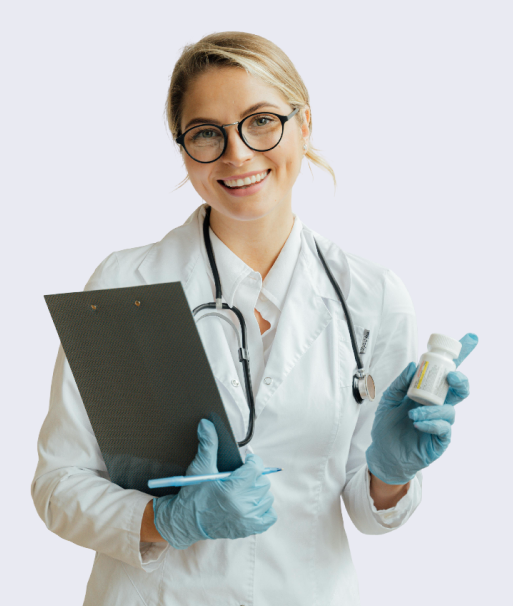
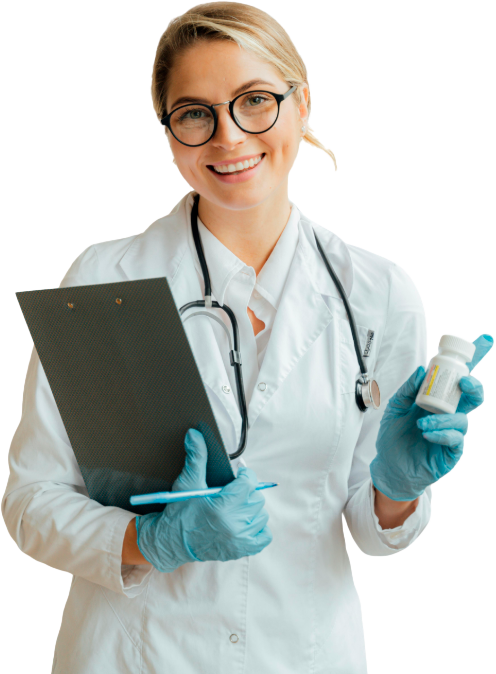
ajusta hero principal

diff --git a/src/components/hero-hss.tsx b/src/components/hero-hss.tsx
@@ -1,6 +1,6 @@
-import medicaHero from '@/assets/medica-hero-hss.png';
-import { NumberTicker } from '@/components/ui/number-ticker';
-import { ShimmerButton } from '@/components/ui/shimmer-button';
+import medicaHero from "@/assets/medica-hero-hss.png";
+import { NumberTicker } from "@/components/ui/number-ticker";
+import { ShimmerButton } from "@/components/ui/shimmer-button";
 
 /* === COMPONENTE HERO | inicio === */
 interface HeroHssProps {
@@ -14,12 +14,15 @@ export function HeroHss({ diasEconomizados, prejuizoEstimado }: HeroHssProps): J
 
   return (
     <section className="relative isolate min-h-[calc(100vh-74px)] overflow-hidden bg-[#eef0f7]/92 px-4 pb-20 pt-16 sm:px-6 lg:px-8 lg:pb-14 lg:pt-20">
-      <div className="absolute inset-y-12 right-[4vw] hidden w-[45vw] max-w-[620px] rounded-full bg-[#d7e7fb] lg:block" aria-hidden="true" />
+      <div
+        className="absolute bottom-10 right-[3vw] top-8 hidden w-[48vw] max-w-[650px] rounded-full bg-[#d7e7fb] lg:block"
+        aria-hidden="true"
+      />
 
-      <div className="relative z-10 mx-auto grid min-h-[calc(100vh-154px)] max-w-[1110px] items-center gap-12 lg:grid-cols-[0.95fr_1.05fr]">
-        <div className="revelar-scroll relative z-20 max-w-[600px]">
-          <h1 className="text-[3.15rem] font-black leading-[1.02] tracking-[0.05em] text-[#070814] sm:text-[4.7rem] lg:text-[5.05rem] xl:text-[5.45rem]">
-            Digitalize e simplifique o{' '}
+      <div className="relative z-10 mx-auto grid min-h-[calc(100vh-154px)] max-w-[1110px] items-center gap-12 lg:grid-cols-[0.92fr_1.08fr]">
+        <div className="revelar-scroll relative z-20 max-w-[560px]">
+          <h1 className="text-[2.55rem] font-black leading-[1.05] tracking-[0.03em] text-[#070814] sm:text-[3.6rem] lg:text-[4rem] xl:text-[4.28rem]">
+            Digitalize e simplifique o{" "}
             <span className="block text-hss-violeta">CREDENCIAMENTO MÉDICO</span>
           </h1>
           <p className="mt-6 max-w-[520px] text-[1.08rem] font-medium leading-8 text-[#111827] sm:text-[1.22rem]">
@@ -42,12 +45,20 @@ export function HeroHss({ diasEconomizados, prejuizoEstimado }: HeroHssProps): J
           </div>
         </div>
 
-        <div className="revelar-scroll relative z-10 flex min-h-[420px] items-end justify-center lg:min-h-[620px] lg:justify-end">
-          <div className="absolute inset-x-8 bottom-10 top-0 rounded-full bg-[#d7e7fb] lg:hidden" aria-hidden="true" />
+        <div className="revelar-scroll relative z-10 flex min-h-[420px] items-end justify-center lg:min-h-[620px]">
+          <div className="absolute inset-x-8 bottom-8 top-0 rounded-full bg-[#d7e7fb] lg:hidden" aria-hidden="true" />
           <img
             src={medicaHero}
             alt="Médica representando o credenciamento digital da Health Sync Solutions"
-            className="relative z-10 max-h-[600px] w-auto max-w-full object-contain object-bottom drop-shadow-[0_22px_32px_rgba(15,23,42,0.08)] lg:max-h-[640px] lg:max-w-[560px] xl:max-w-[620px]"
+            className="relative z-10 max-h-[570px] w-auto max-w-full object-contain object-bottom drop-shadow-[0_22px_32px_rgba(15,23,42,0.08)] lg:-ml-4 lg:max-h-[610px] lg:max-w-[540px] xl:max-h-[630px] xl:max-w-[590px]"
+            style={{
+              WebkitMaskImage:
+                "linear-gradient(90deg, transparent 0%, black 10%, black 86%, transparent 100%), linear-gradient(180deg, black 0%, black 78%, transparent 100%)",
+              WebkitMaskComposite: "source-in",
+              maskComposite: "intersect",
+              maskImage:
+                "linear-gradient(90deg, transparent 0%, black 10%, black 86%, transparent 100%), linear-gradient(180deg, black 0%, black 78%, transparent 100%)",
+            }}
           />
         </div>
       </div>
@@ -60,7 +71,7 @@ export function HeroHss({ diasEconomizados, prejuizoEstimado }: HeroHssProps): J
 function MetricaHero({ valor, texto, compacta = false }: { valor: JSX.Element; texto: string; compacta?: boolean }): JSX.Element {
   return (
     <div className="min-w-0 pr-3">
-      <strong className={compacta ? 'block truncate text-2xl font-black text-hss-roxo' : 'block text-3xl font-black text-hss-roxo'}>
+      <strong className={compacta ? "block truncate text-2xl font-black text-hss-roxo" : "block text-3xl font-black text-hss-roxo"}>
         {valor}
       </strong>
       <span className="mt-1 block text-sm leading-5 text-[#34323e]">{texto}</span>

diff --git a/doc/changelog.md b/doc/changelog.md
@@ -12,6 +12,7 @@
 08 - Atualizado `README.md` no padrão GitHub.
 09 - Atualizado `wrangler.toml` com o projeto Cloudflare `hssfiap-chalange-1twdor-2025`.
 10 - Registradas melhorias sugeridas para próximas versões.
+11 - Ajustado hero para reduzir o título, alinhar a médica ao fundo azul claro e aplicar degradê transparente na imagem.
 
 ## v6 - Ajustes finais da landing light Figma + componentes animados
 